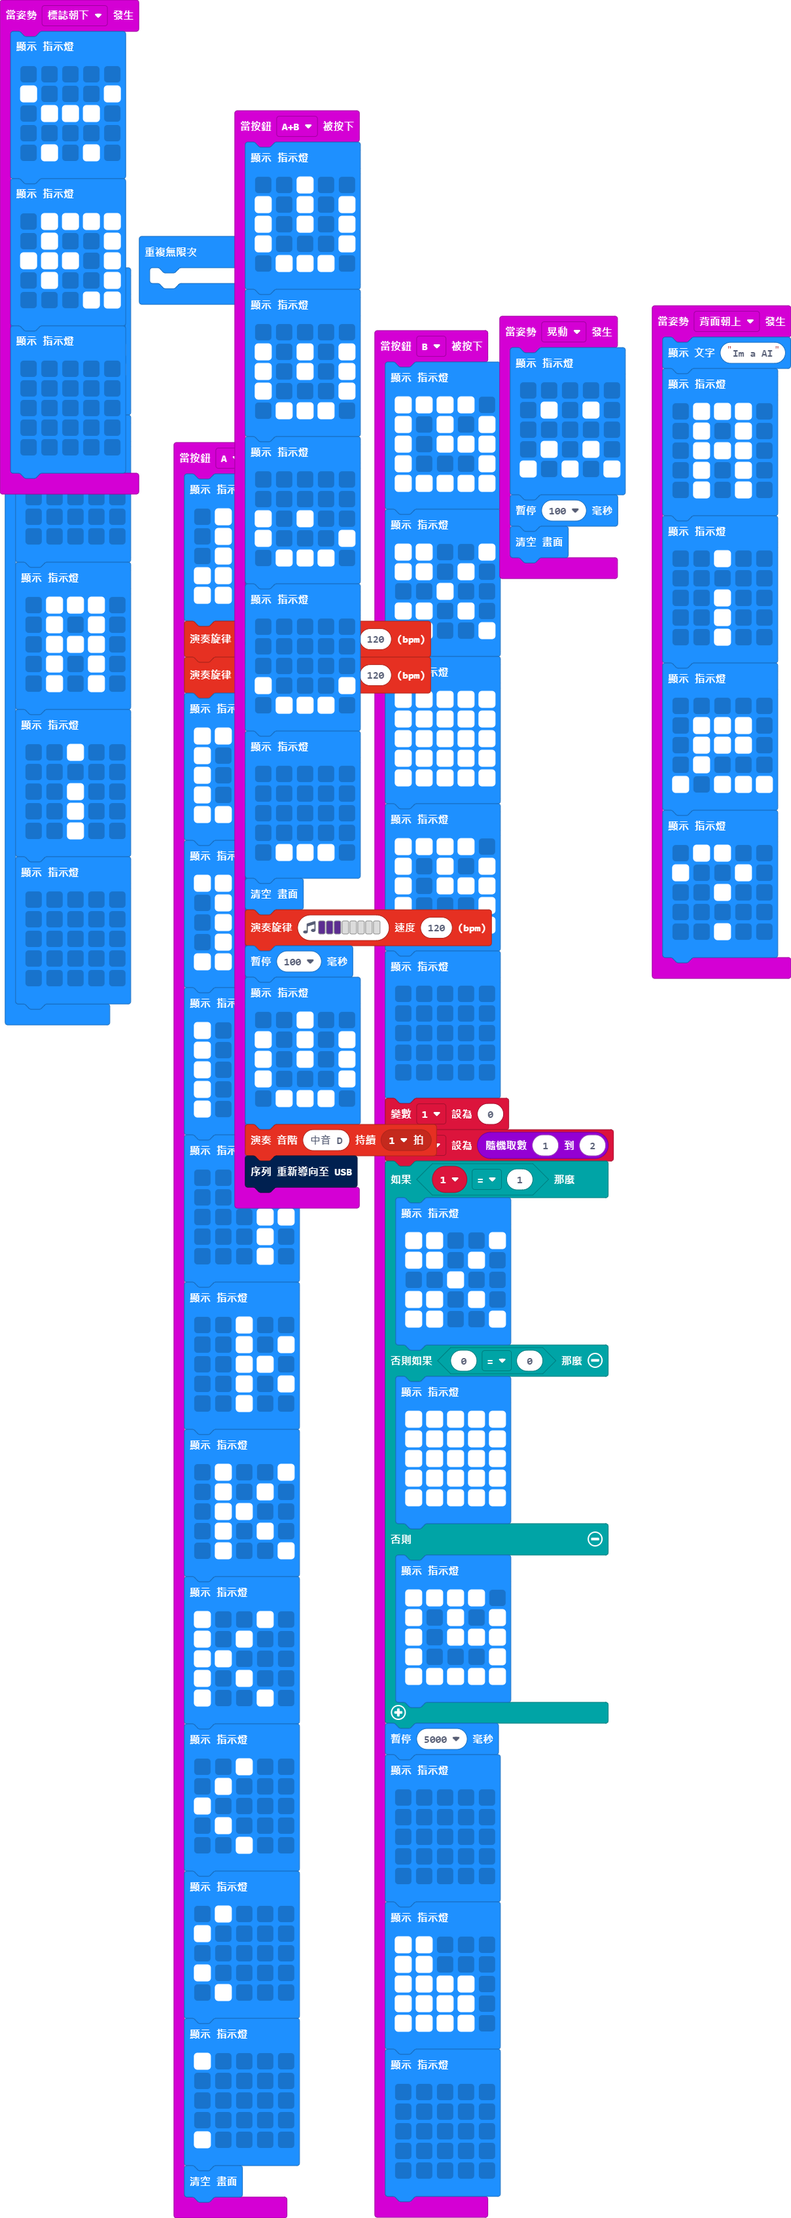
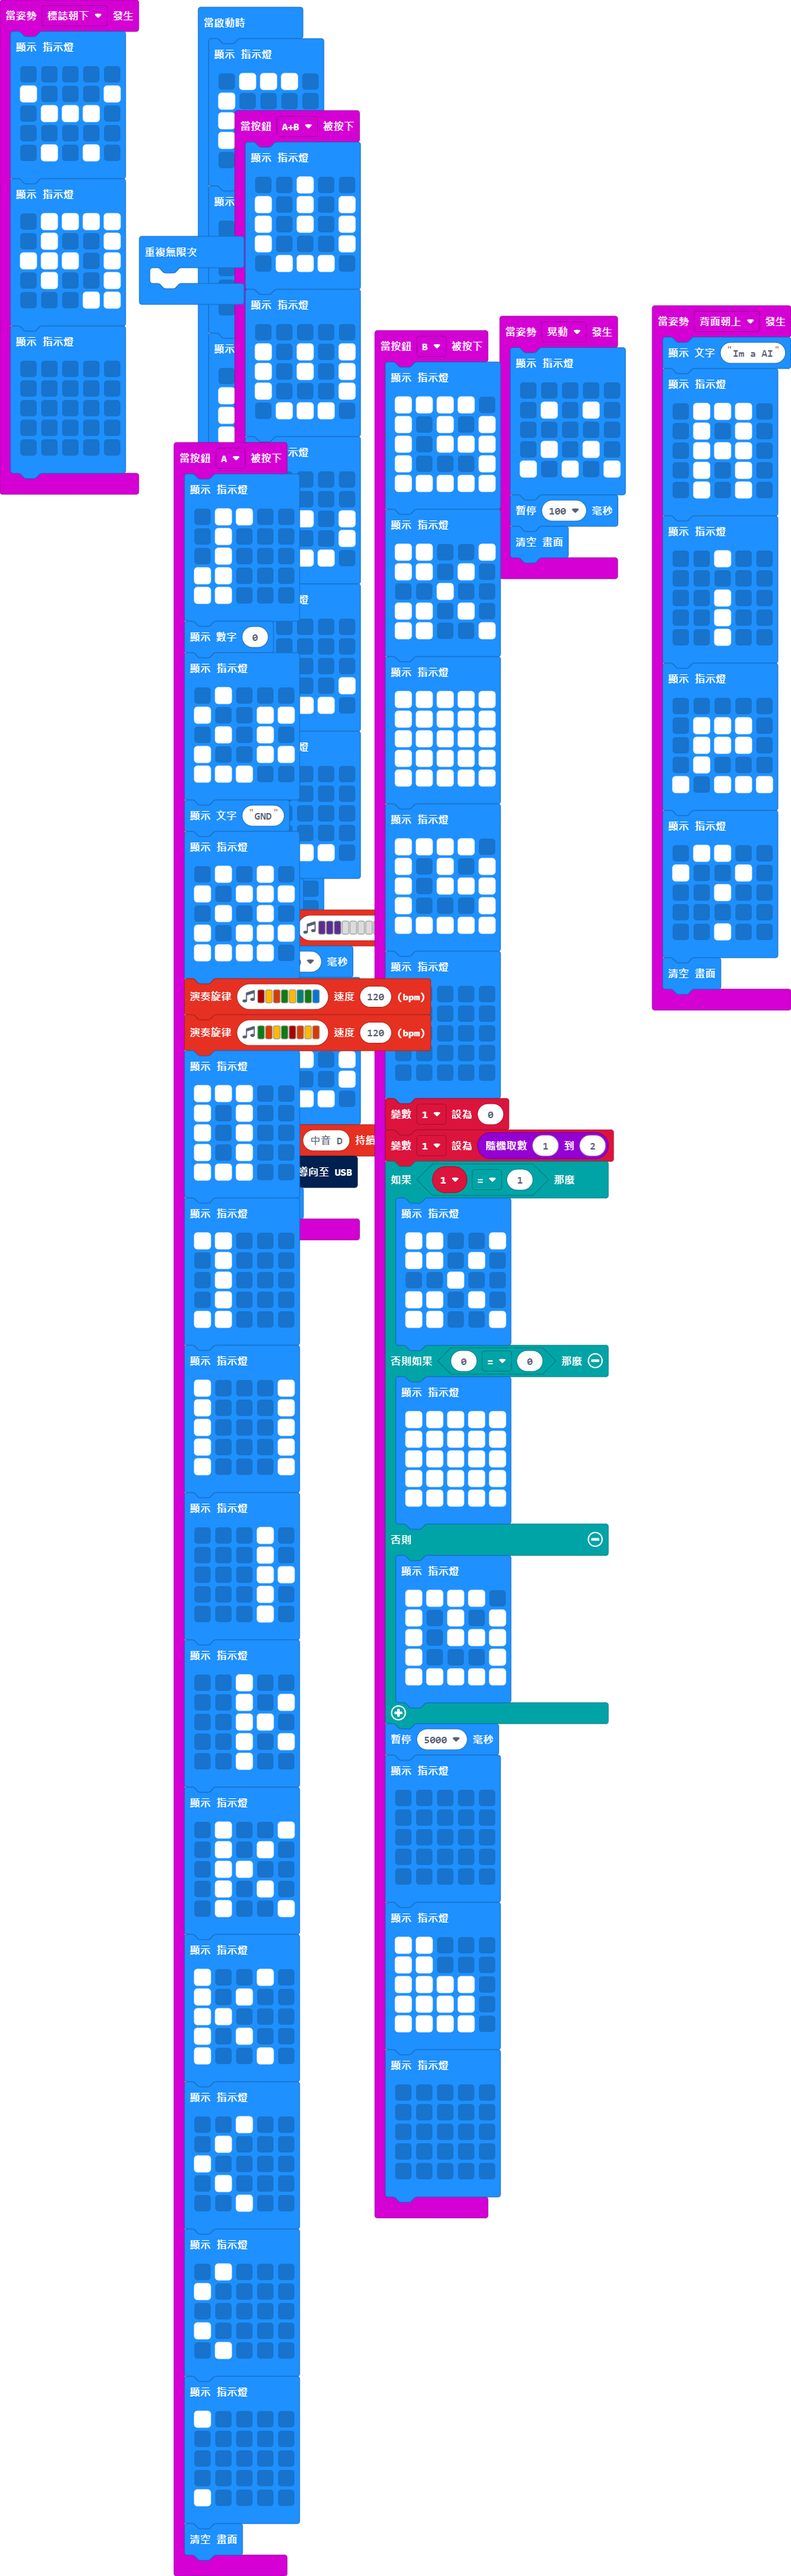
更新 main.blocks, main.ts

diff --git a/main.ts b/main.ts
@@ -51,6 +51,7 @@ input.onGesture(Gesture.ScreenDown, function () {
         . . . . .
         . . # . .
         `)
+    basic.clearScreen()
 })
 input.onButtonPressed(Button.A, function () {
     basic.showLeds(`
@@ -59,6 +60,22 @@ input.onButtonPressed(Button.A, function () {
         . # . . .
         # # . . .
         # # . . .
+        `)
+    basic.showNumber(0)
+    basic.showLeds(`
+        . # . . .
+        # . . # #
+        . # . # .
+        # . . # #
+        # # # . .
+        `)
+    basic.showString("GND")
+    basic.showLeds(`
+        . # . # .
+        # . # # #
+        . # . # .
+        # . # # #
+        # # # # .
         `)
     music.playMelody("C5 A B G A F G E ", 120)
     music.playMelody("G B A G C5 B A B ", 120)
@@ -163,7 +180,7 @@ input.onButtonPressed(Button.AB, function () {
     basic.showLeds(`
         . . . . .
         . . . . .
-        # . # . .
+        # . # . #
         # . . . #
         . # # # .
         `)
@@ -193,6 +210,7 @@ input.onButtonPressed(Button.AB, function () {
         `)
     music.playTone(294, music.beat(BeatFraction.Whole))
     serial.redirectToUSB()
+    basic.clearScreen()
 })
 input.onButtonPressed(Button.B, function () {
     basic.showLeds(`
@@ -296,26 +314,42 @@ basic.showLeds(`
     . . . . .
     `)
 basic.showLeds(`
-    . # # # .
-    . # . # .
-    . # # # .
-    . # . # .
-    . # . # .
-    `)
-basic.showLeds(`
-    . . # . .
     . . . . .
-    . . # . .
-    . . # . .
-    . . # . .
+    # # # . #
+    # . # . .
+    # # # . #
+    # . # . #
     `)
 basic.showLeds(`
     . . . . .
+    # . . . #
+    # # # . .
+    # . # . #
+    # . # . #
+    `)
+basic.showLeds(`
+    . . . . .
     . . . . .
     . . . . .
     . . . . .
     . . . . .
     `)
+led.setBrightness(255)
+basic.showLeds(`
+    # . . . #
+    . # . # .
+    . . # . .
+    . # . # .
+    # . . . #
+    `)
+basic.showLeds(`
+    . . # # .
+    # . # . #
+    . # # # .
+    # . # . #
+    . . # # .
+    `)
+basic.clearScreen()
 basic.forever(function () {
 	
 })
